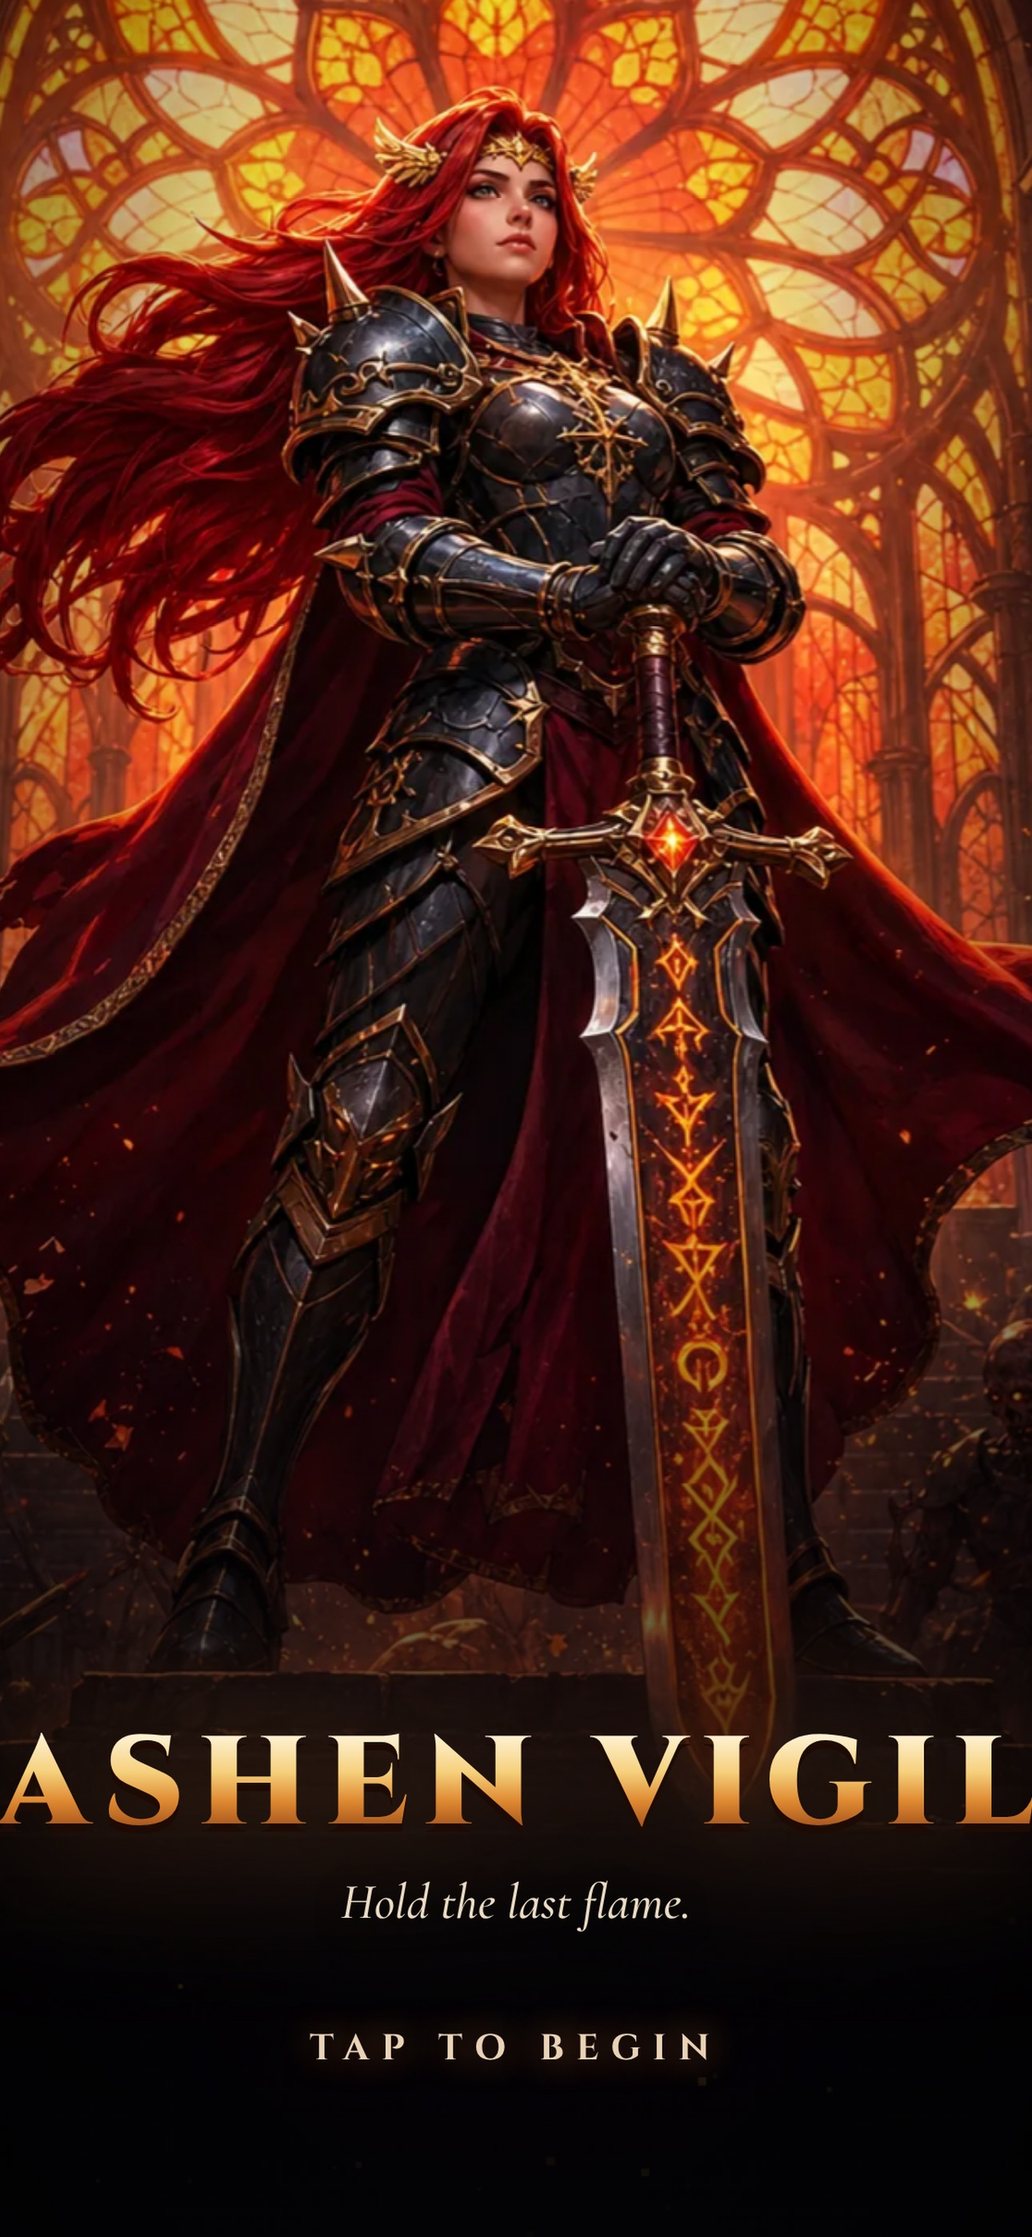
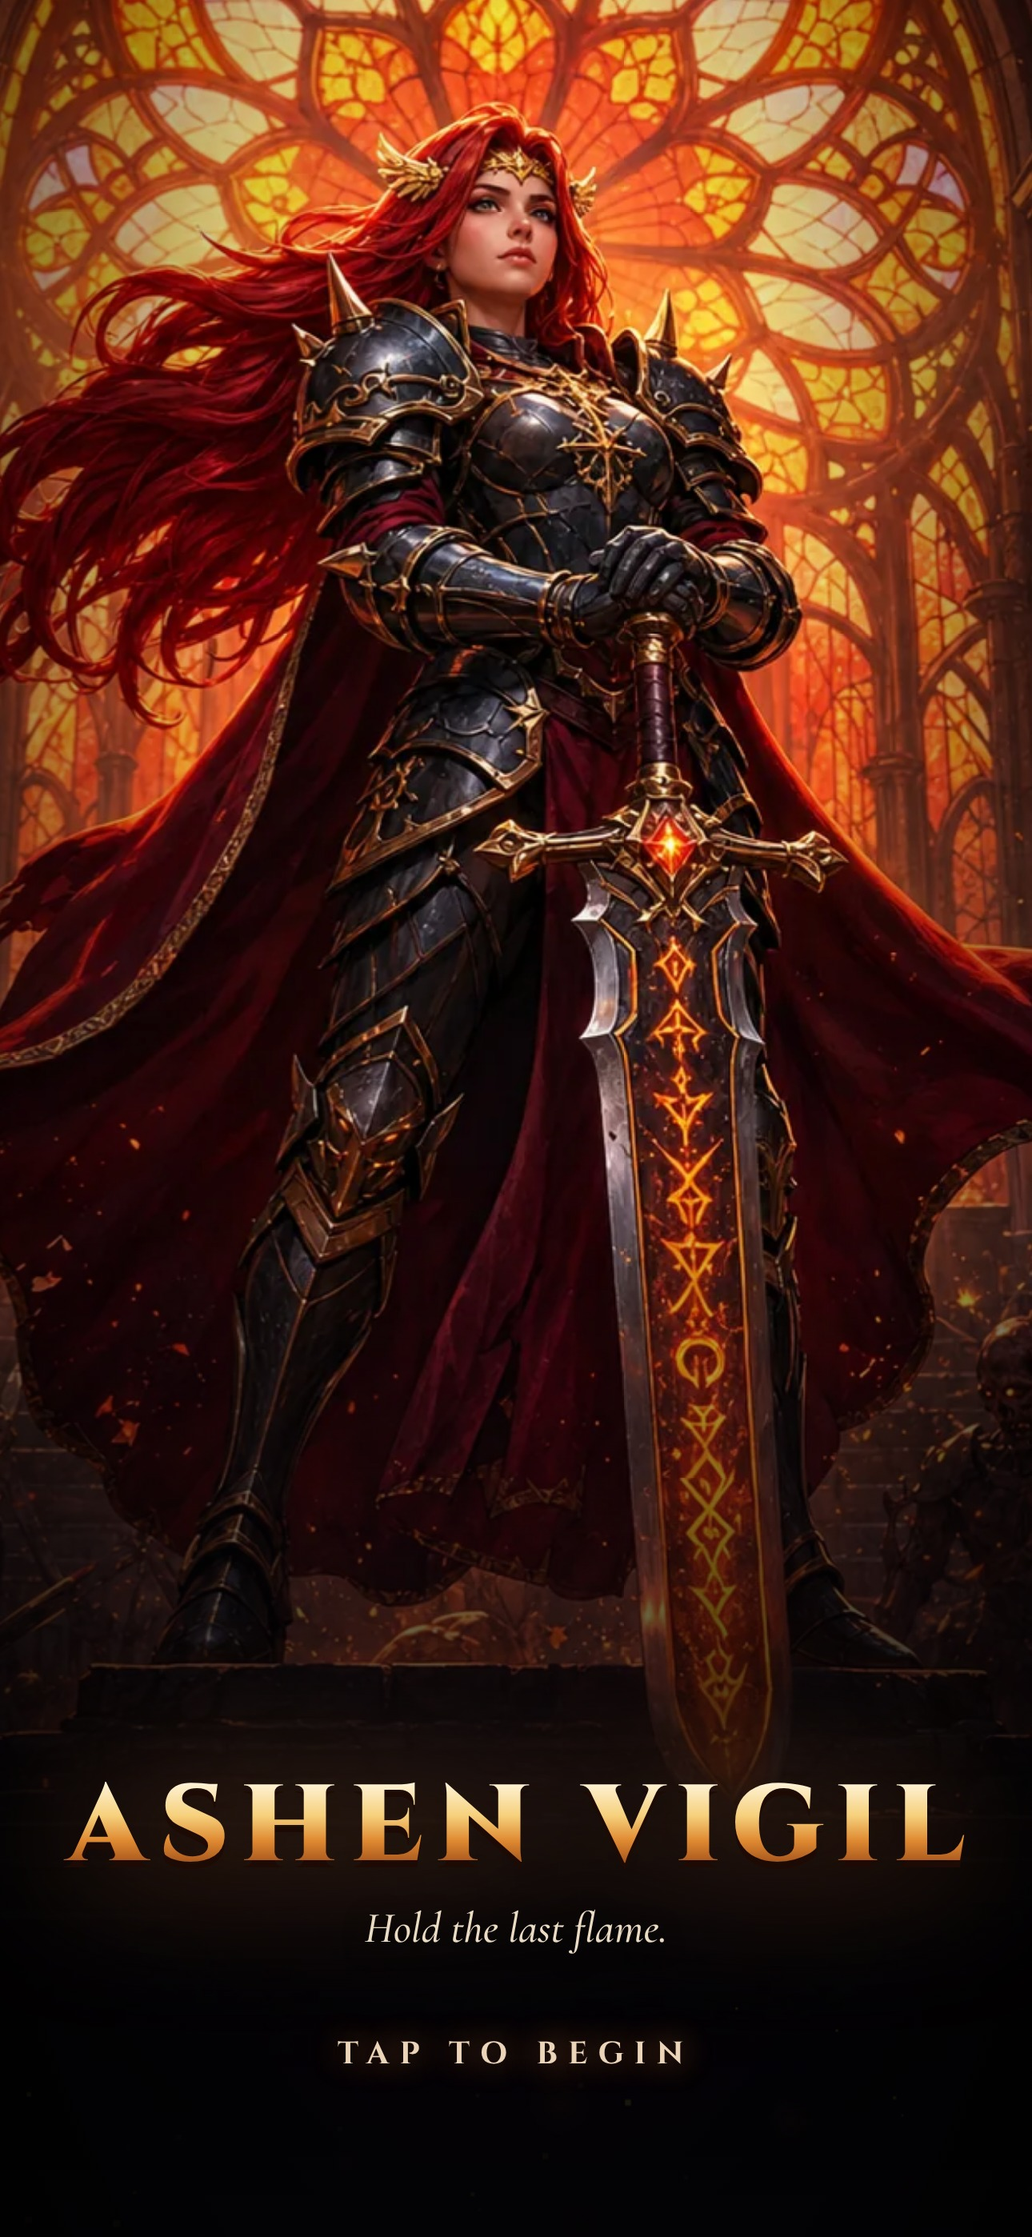
Ashen Vigil: launch prep
- Package name is now com.thorisathot.ashenvigil
- Android release workflow builds a signed .aab with a private upload key from
  repository secrets; AdMob app id comes from a repository variable
- Google UMP ad consent for EEA/UK players, ad privacy choices and a privacy
  policy link in Settings; privacy policy page on the website
- LAUNCH.md: every account to create and every step, with answers for the
  content rating and Data safety forms
- Store listing text mentions dungeons and events; screenshots refreshed,
  including a new dungeons screenshot

Claude-Session: https://claude.ai/code/session_01Y7EHTCx1VVqY7PxuTGtBVF

diff --git a/ashen-vigil/index.html b/ashen-vigil/index.html
@@ -1616,6 +1616,7 @@ function grantPlayerXp(x) {
    In the browser these report unavailable and the UI hides them. In the Capacitor
    app they talk to RevenueCat (@revenuecat/purchases-capacitor) and AdMob
    (@capacitor-community/admob). Fill in the keys below before shipping. */
+const PRIVACY_URL = 'https://thorisathot.github.io/project-3/privacy.html';
 const STORE_KEYS = { revenuecatAndroid: 'REVENUECAT_ANDROID_KEY', revenuecatIos: 'REVENUECAT_IOS_KEY', admobRewardedAndroid: 'ca-app-pub-3940256099942544/5224354917', admobRewardedIos: 'ca-app-pub-3940256099942544/1712485313' };
 const Platform = {
   plugins: {}, prices: {}, ready: false,
@@ -1627,7 +1628,8 @@ const Platform = {
     return this.plugins[name];
   },
   canBuy() { return this.ready && !!this.plugin('Purchases'); },
-  canAds() { return this.ready && !!this.plugin('AdMob'); },
+  canAds() { return this.ready && !!this.plugin('AdMob') && this.adsOk !== false; },
+  async privacyOptions() { const A = this.plugin('AdMob'); if (A) try { await A.showPrivacyOptionsForm(); } catch (e) {} },
   async init() {
     if (!this.native) return;
     try {
@@ -1637,7 +1639,16 @@ const Platform = {
         const { products } = await P_.getProducts({ productIdentifiers: [...PACKS.map(p => p.sku), STARTER.sku, URN.sku, ...WING_PACKS.map(p => p.sku)] });
         for (const p of products || []) this.prices[p.identifier] = p;
       }
-      const A = this.plugin('AdMob'); if (A) await A.initialize({});
+      const A = this.plugin('AdMob');
+      if (A) {
+        await A.initialize({});
+        // Google's consent message (UMP) for players in the EEA/UK; set it up under AdMob > Privacy & messaging
+        try {
+          let ci = await A.requestConsentInfo();
+          if (ci.isConsentFormAvailable && ci.status === 'REQUIRED') ci = await A.showConsentForm();
+          this.adsOk = ci.canRequestAds !== false; this.privacyOpt = ci.privacyOptionsRequirementStatus === 'REQUIRED';
+        } catch (e) { this.adsOk = true; }
+      }
     } catch (e) { console.warn('Store init failed', e); }
     this.ready = true; if (state === 'title') renderHub();
   },
@@ -4604,6 +4615,7 @@ function openSettings(confirmErase) {
     <div class="seg two" role="group" aria-label="Sound"><button data-s="on" aria-pressed="${!SND.muted}">On</button><button data-s="off" aria-pressed="${SND.muted}">Off</button></div>
     <div class="eyebrow">Controls</div><p class="muted" style="margin:0;font-size:15px">Move with WASD, the arrow keys or by dragging. Roll with Space, Shift or a right-click. Parry with F, J or a left-click. Drink a flask with Q or E. Pause with Esc, toggle sound with M. Controllers work too: left stick moves, A rolls, B parries, Y drinks, Start pauses.</p>
     ${!Platform.native ? `<div class="eyebrow">This browser</div><div class="row setrow">${canFullscreen() ? '<button class="btn ghost" id="mFull">Fullscreen</button>' : ''}${installPrompt ? '<button class="btn ghost" id="mInstall">Install as app</button>' : ''}<button class="btn ghost" id="mExport">Back up save</button><button class="btn ghost" id="mImport">Restore save</button></div><p class="muted" style="margin:0;font-size:13px">Progress is stored in this browser. Back it up before clearing site data or switching devices.</p>` : ''}
+    <div class="eyebrow">Privacy</div><div class="row setrow"><a class="btn ghost" href="${PRIVACY_URL}" target="_blank" rel="noopener">Privacy policy</a>${Platform.privacyOpt ? '<button class="btn ghost" id="mAdPriv">Ad privacy choices</button>' : ''}</div>
     ${confirmErase ? `<p class="muted">This erases all gold, sigils, gear, upgrades and unlocks on this device. It cannot be undone.</p>
       <div class="row"><button class="btn ghost danger" id="mErase2">Erase everything</button><button class="btn ghost" id="mKeep">Keep my progress</button></div>`
       : `<div class="row"><button class="btn" id="mClose" style="padding:12px 24px;font-size:14px">Done</button><button class="btn ghost danger" id="mErase">Erase progress</button></div>`}`, m => {
@@ -4612,7 +4624,7 @@ function openSettings(confirmErase) {
     if (confirmErase) { m.querySelector('#mKeep').onclick = () => openSettings(false); m.querySelector('#mErase2').onclick = () => { SAVE = DEFAULT_SAVE(); migrateSave(); closeModal(); renderHub(); toast('Progress erased.'); }; }
     else { m.querySelector('#mClose').onclick = closeModal; m.querySelector('#mErase').onclick = () => openSettings(true); }
     const on = (id, fn) => { const b = m.querySelector(id); if (b) b.onclick = fn; };
-    on('#mFull', toggleFullscreen); on('#mExport', exportSave); on('#mImport', importSave);
+    on('#mAdPriv', () => Platform.privacyOptions()); on('#mFull', toggleFullscreen); on('#mExport', exportSave); on('#mImport', importSave);
     on('#mInstall', async () => { if (!installPrompt) return; installPrompt.prompt(); try { await installPrompt.userChoice; } catch (e) {} installPrompt = null; openSettings(false); });
   });
 }

diff --git a/ashen-vigil/web-static/privacy.html b/ashen-vigil/web-static/privacy.html
@@ -1,0 +1,58 @@
+<!doctype html>
+<html lang="en">
+<head>
+<meta charset="utf-8">
+<meta name="viewport" content="width=device-width,initial-scale=1">
+<title>Ashen Vigil · Privacy policy</title>
+<meta name="description" content="Privacy policy for the game Ashen Vigil.">
+<link rel="icon" type="image/png" href="icon-32.png">
+<style>
+:root{--bg:#120d1e;--panel:#1d1630;--ink:#e8e0f4;--muted:#a89ec0;--gold:#ffc04a}
+body{margin:0;background:var(--bg);color:var(--ink);font:17px/1.6 Georgia,'Times New Roman',serif}
+main{max-width:760px;margin:0 auto;padding:32px 20px 64px}
+h1{font-size:30px;letter-spacing:.06em;margin:0 0 4px;color:var(--gold)}
+h2{font-size:20px;margin:32px 0 8px;color:var(--gold)}
+p,li{color:var(--ink)}.muted{color:var(--muted)}
+a{color:var(--gold)}
+section{background:var(--panel);border:1px solid #3f3460;border-radius:14px;padding:4px 20px 12px;margin-top:16px}
+</style>
+</head>
+<body>
+<main>
+<h1>Ashen Vigil privacy policy</h1>
+<p class="muted">Last updated: 24 November 2026</p>
+<p>Ashen Vigil ("the game") is made by an independent developer ("we", "us"). This policy explains what information the game uses and why. The game has no accounts and we do not sell your personal information.</p>
+
+<section>
+<h2>Information stored on your device</h2>
+<p>Your progress (gold, gear, upgrades, settings and the player name you choose) is saved on your device only. We do not receive it. You can erase it at any time in Settings &gt; Erase progress, or by uninstalling the game or clearing the site data in your browser.</p>
+</section>
+
+<section>
+<h2>Purchases</h2>
+<p>In-app purchases are processed by Google Play (or the Apple App Store). We never see your payment card details. To deliver and restore purchases, the game uses RevenueCat, which receives an anonymous app user ID, the products you buy and basic device information. See <a href="https://www.revenuecat.com/privacy">RevenueCat's privacy policy</a> and <a href="https://policies.google.com/privacy">Google's privacy policy</a>.</p>
+</section>
+
+<section>
+<h2>Advertising</h2>
+<p>The app offers optional rewarded ads through Google AdMob (for example, to double gold after a run). AdMob may collect your device's advertising ID, IP address, approximate location, device information and how you interact with ads, to show and measure ads and to prevent fraud. In the European Economic Area, the UK and Switzerland we ask for your consent first, and you can change your choice in Settings &gt; Ad privacy choices. You can also reset or delete your advertising ID in your phone's settings. See <a href="https://policies.google.com/technologies/ads">how Google uses information from apps that use its services</a>. The website version of the game shows no ads.</p>
+</section>
+
+<section>
+<h2>Fonts and website hosting</h2>
+<p>The game loads its fonts from Google Fonts, and the website is hosted on GitHub Pages. Like any web request, these services receive your IP address and basic browser information. See <a href="https://policies.google.com/privacy">Google's privacy policy</a> and <a href="https://docs.github.com/site-policy/privacy-policies/github-general-privacy-statement">GitHub's privacy statement</a>.</p>
+</section>
+
+<section>
+<h2>Children</h2>
+<p>The game is not directed at children under 13, and we do not knowingly collect personal information from children.</p>
+</section>
+
+<section>
+<h2>Your rights and contact</h2>
+<p>Because your progress stays on your device, we hold no personal data about you ourselves. For questions, or to ask RevenueCat to delete purchase records linked to your anonymous ID, contact us at the developer email shown on the game's Google Play page.</p>
+<p>We may update this policy. The latest version is always at this address.</p>
+</section>
+</main>
+</body>
+</html>

diff --git a/ashen-vigil/android/app/src/main/java/com/thorisathot/ashenvigil/MainActivity.java b/ashen-vigil/android/app/src/main/java/com/thorisathot/ashenvigil/MainActivity.java
@@ -1,4 +1,4 @@
-package com.example.ashenvigil;
+package com.thorisathot.ashenvigil;
 
 import com.getcapacitor.BridgeActivity;
 

diff --git a/ashen-vigil/LAUNCH.md b/ashen-vigil/LAUNCH.md
@@ -1,0 +1,113 @@
+# Launch checklist
+
+Everything needed to get Ashen Vigil onto Google Play, in order. Items marked **(me)** are done or handled in the code; everything else is yours.
+
+## 1. Before you sign up
+
+- [ ] **Business address** for the public trader profile: a virtual office or mail-forwarding *street* address (PO boxes are often rejected). Keep a bill or letter showing it, in case Google asks for proof.
+- [ ] **Support email** for players, for example a new Gmail like `ashenvigil.support@gmail.com`. It is shown publicly on the store page. Send it to me and I'll put it in the privacy policy.
+- [ ] **12 or more Android testers** (friends and family) with Google accounts, for the required closed test.
+- [ ] **Bank account** in your name for payouts.
+
+## 2. Google Play Console — https://play.google.com/console
+
+Sign-up:
+- [ ] Choose **Personal** account (no D-U-N-S number needed).
+- [ ] Pay the one-time US$25 fee and verify your identity (government ID).
+- [ ] Developer name: what players see (your name or a studio name like "Ashen Studio").
+- [ ] Contact email (the support email) and phone number; verify both.
+- [ ] Declare **Trader** status (EU) using your business address.
+
+Payments (needed for in-app purchases):
+- [ ] **Setup > Payments profile**: link a payments profile with your business address, tax details (ABN optional for individuals in Australia) and bank account.
+
+Create the app:
+- [ ] **Create app**: name *Ashen Vigil*, language English, type **Game**, **Free**, accept the declarations.
+- [ ] Package name will be `com.thorisathot.ashenvigil` (set from the first upload; tell me now if you want a different one).
+
+App content (Policy > App content) — answers are in section 7 below:
+- [ ] Privacy policy URL: `https://thorisathot.github.io/project-3/privacy.html` **(me)**
+- [ ] App access: all functionality available without special access.
+- [ ] Ads: **Yes, the app contains ads**.
+- [ ] Content rating questionnaire.
+- [ ] Target audience: **13–15, 16–17 and 18+** (not under 13).
+- [ ] Data safety form.
+- [ ] Government app: No. Financial features: None. Health: No. News: No.
+
+Store listing (Grow > Store presence > Main store listing):
+- [ ] Short and full description: copy from `STORE.md`.
+- [ ] App icon 512x512 (`store/play/icon_512.png`), feature graphic 1024x500 (`store/play/feature_graphic_1024x500.jpg`), phone screenshots (`store/play/0*.jpg`). I'll refresh the screenshots with the new features **(me)**.
+- [ ] Category: Action. Tags: Action, Roguelike, RPG.
+
+In-app products (Monetize > Products > In-app products) — create these with exactly these IDs:
+- [ ] `av_sigils_80`, `av_sigils_500`, `av_sigils_1200` (consumable sigil packs)
+- [ ] `av_starter` (Pilgrim's Bundle, one-time)
+- [ ] `av_urn` (Ember Urn, consumable)
+- [ ] `av_wings_abyssal`, `av_wings_seraph` (wings, one-time)
+- [ ] **Setup > API access**: create a service account and grant it access so RevenueCat can check purchases (RevenueCat's guide walks you through it).
+
+Testing and release:
+- [ ] **Setup > App signing**: keep **Play App Signing** on (Google holds the final key; you only hold an upload key).
+- [ ] Upload the first `.aab` to **Testing > Closed testing** and add your 12+ testers by email or a Google Group.
+- [ ] Keep the closed test running for **14 days** with testers opening the game.
+- [ ] Then **Apply for production access**, answer the short questions, and roll out.
+
+## 3. GitHub — https://github.com/Thorisathot/project-3
+
+- [ ] **Upload key** (once): on your computer, run
+  `keytool -genkeypair -v -keystore upload.keystore -alias upload -keyalg RSA -keysize 2048 -validity 10000`
+  (keytool comes with Android Studio or any Java install). Keep the file and passwords somewhere safe and backed up.
+- [ ] Turn the key into text: `base64 -w0 upload.keystore` (Mac: `base64 -i upload.keystore`; Windows PowerShell: `[Convert]::ToBase64String([IO.File]::ReadAllBytes("upload.keystore"))`).
+- [ ] **Settings > Secrets and variables > Actions > New repository secret**:
+  `ANDROID_KEYSTORE_BASE64`, `ANDROID_KEYSTORE_PASSWORD`, `ANDROID_KEY_ALIAS` (`upload`), `ANDROID_KEY_PASSWORD`.
+- [ ] Same page, **Variables** tab: `ADMOB_APP_ID` = your real AdMob app id (after step 4).
+- [ ] Build: **Actions > Android release > Run workflow**, type the version (for example `1.0.0`), then download `app-release.aab` from the finished run and upload it to Play Console. **(me: workflow ready)**
+- [ ] Optional: make the repository private (then add a read-only token to Obtainium).
+
+## 4. AdMob — https://admob.google.com
+
+- [ ] Sign up with the same Google account; add your payment and tax details.
+- [ ] **Apps > Add app**: Android, "Is the app on a store?" No for now (link it after launch).
+- [ ] Copy the **app ID** (`ca-app-pub-...~...`) into the GitHub variable `ADMOB_APP_ID`.
+- [ ] **Ad units > Add ad unit > Rewarded**: name it "Rewarded", reward 1 "bonus". Send me the ad unit ID (`ca-app-pub-.../...`) and I'll put it in the game.
+- [ ] **Privacy & messaging**: create a **European regulations (GDPR)** message and publish it. The game already shows it to players in the EEA and UK **(me)**.
+- [ ] Never tap your own live ads. Test with Google's test ads (already used in test builds).
+
+## 5. RevenueCat — https://www.revenuecat.com
+
+- [ ] Sign up (free until you earn US$2.5k a month).
+- [ ] Create a project, add a **Google Play** app with package `com.thorisathot.ashenvigil`.
+- [ ] Upload the Play service account JSON from step 2 (their guide shows how).
+- [ ] Add the same product IDs as Play Console.
+- [ ] Copy the **public Android SDK key** (starts with `goog_`) and send it to me; I'll put it in the game.
+
+## 6. Later, for iPhone
+
+- [ ] Apple Developer Program (US$99/year), a Mac with Xcode, App Store Connect listing, the same product IDs, and the RevenueCat iOS key.
+
+## 7. Answers for Play Console forms
+
+**Content rating (IARC)**
+- Category: Game.
+- Violence: yes, fantasy violence against non-human creatures (undead, monsters); not realistic. Blood: yes, stylised blood splatter. No dismemberment of humans.
+- Fear/horror: mild dark fantasy themes.
+- Sexuality, nudity, profanity, drugs, alcohol, tobacco, crude humour: none.
+- Gambling: no real-money gambling. **In-game purchases: yes, including random items** (chests). Odds are shown in the game.
+- Users interact or share content: no. Shares location: no. Unrestricted internet: no.
+
+**Target audience and content**
+- Target ages: 13–15, 16–17, 18+. Not designed for children. Store listing does not appeal to children.
+
+**Ads**: yes, the app contains ads (optional rewarded video only).
+
+**Data safety**
+- Does the app collect or share user data? **Yes** (through AdMob and RevenueCat).
+- Data encrypted in transit: **Yes**. Users can request deletion: **Yes** (by email; progress itself is only on the device).
+- Collected:
+  - *Device or other IDs* (advertising ID): collected and shared, for Advertising and Analytics (AdMob); App functionality (RevenueCat's anonymous app user ID).
+  - *Purchase history*: collected, for App functionality (RevenueCat, restoring purchases).
+  - *App interactions*: collected by AdMob for Advertising and Analytics.
+  - *Approximate location* (from IP): collected by AdMob for Advertising.
+  - *Crash logs and diagnostics*: collected by AdMob for Analytics.
+- Not collected: name, email, contacts, photos, precise location, messages, health, financial info (Google handles payments).
+- Processed ephemerally: no. Required or optional: advertising data is optional (ads are optional and consent is asked in the EEA/UK).

diff --git a/ashen-vigil/APP.md b/ashen-vigil/APP.md
@@ -18,7 +18,7 @@ npm run ios              # build, sync, open Xcode
 
 Run `npm run sync` again after every change to `index.html`. Commit the generated `android/` and `ios/` folders, because native settings live there.
 
-Before publishing, change `appId` in `capacitor.config.json` from `com.example.ashenvigil` to a reverse-domain ID you own. It can't be changed after the first store release.
+The app id is `com.thorisathot.ashenvigil` (set in `capacitor.config.json` and `android/app/build.gradle`). It can't be changed after the first store release.
 
 ## Monetisation
 
@@ -79,3 +79,9 @@ To get updates on an Android phone:
 Obtainium checks for new releases in the background and can update automatically (Settings, then Updates).
 
 Test builds are signed with `android/test-signing.keystore`. This key is committed on purpose so every CI build can update the installed app. Never use it for the Play Store; create a private upload key for release builds. The manifest uses Google's test AdMob app id until you set a real one.
+
+## Release builds for Google Play
+
+See `LAUNCH.md` for the full checklist. Release bundles are built by `.github/workflows/android-release.yml` (Actions > Android release > Run workflow). It signs with your private upload key from the repository secrets `ANDROID_KEYSTORE_BASE64`, `ANDROID_KEYSTORE_PASSWORD`, `ANDROID_KEY_ALIAS` and `ANDROID_KEY_PASSWORD`, and reads your real AdMob app id from the repository variable `ADMOB_APP_ID`. The test-only key in `android/test-signing.keystore` is never used for releases. The package name is `com.thorisathot.ashenvigil`.
+
+The game asks EEA and UK players for ad consent through Google's UMP message (create it in AdMob > Privacy & messaging), and Settings links to the privacy policy at `https://thorisathot.github.io/project-3/privacy.html`.

diff --git a/ashen-vigil/STORE.md b/ashen-vigil/STORE.md
@@ -49,6 +49,12 @@ Choose from 13 armaments, including one found only in each stage, and 7 relics a
 LOOT EPIC GEAR
 Open chests for helms, armor, rings and talismans in four rarities. Upgrade them, merge three into one of higher rarity, and chase legendaries. Drop odds and guarantees are always shown.
 
+RAID DAILY DUNGEONS
+Chase gilded thieves through the Gilded Vault, defend a sigil crystal in the Crystal Reliquary, slay the Den Mother in the Ember Hatchery to hatch a familiar companion, and survive the Trial of Bells boss rush.
+
+SEASONAL EVENTS
+Gather feathers from hordes and bosses to earn rare wings each season.
+
 GROW STRONGER EVERY RUN
 Earn gold and player levels, walk the talent path, unlock five origins and descend through four increasingly deadly stages.
 
